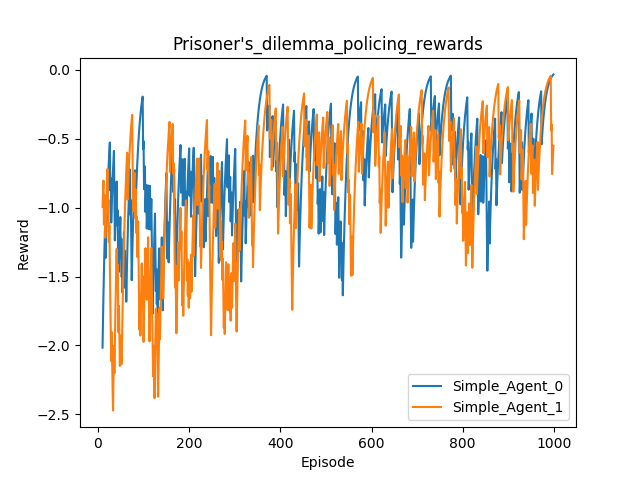
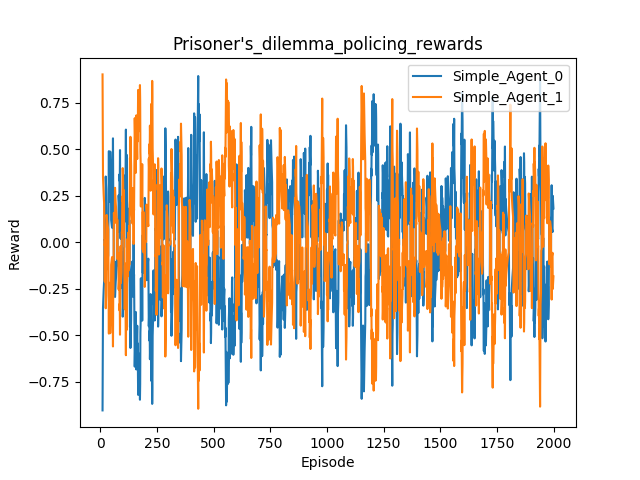
Added logging and plotting of action probs, minor changes

diff --git a/Agents.py b/Agents.py
@@ -1,7 +1,7 @@
 import numpy as np
 import tensorflow as tf
 
-RANDOM_SEED = 9
+RANDOM_SEED = 5
 np.random.seed(RANDOM_SEED)
 tf.set_random_seed(RANDOM_SEED)
 
@@ -179,6 +179,7 @@ class Critic(object):
 class Simple_Agent(Agent): #plays games with 2 actions, using a single parameter
     def __init__(self, env, learning_rate=0.001, n_units_critic = 20, gamma = 0.95, agent_idx = 0, critic_variant = Critic_Variant.INDEPENDENT):
         super().__init__(env, learning_rate, gamma, agent_idx)
+        self.log = []
         self.s = tf.placeholder(tf.float32, [1, env.n_features], "state") # dummy variable
         self.a = tf.placeholder(tf.int32, None, "act")
         self.td_error = tf.placeholder(tf.float32, None, "td_error")  # TD_error
@@ -211,7 +212,9 @@ class Simple_Agent(Agent): #plays games with 2 actions, using a single parameter
 
     def calc_action_probs(self, s):
         s = s[np.newaxis, :]
-        return self.sess.run(self.actions_prob)  
+        probs = self.sess.run(self.actions_prob)  
+        self.log.append(probs[0,1])
+        return probs
 
     def pass_agent_list(self, agent_list):
         self.critic.pass_agent_list(agent_list)
@@ -250,7 +253,7 @@ class Policing_Sub_Agent(Agent):
         self.a_player = tf.placeholder(tf.float32, None, "player_action")
         self.inputs = tf.concat([self.s,tf.reshape(self.a_player,(1,1))],1)
 
-        with tf.variable_scope('Policy_p_Network_Agent_'+str(policed_agent.agent_idx)):
+        with tf.variable_scope('Policy_p_'+str(policed_agent.agent_idx)):
             # l1 = tf.layers.dense(
             #     inputs=self.inputs,
             #     units=n_units,    # number of hidden units
@@ -260,10 +263,10 @@ class Policing_Sub_Agent(Agent):
             #     name='l1_policing'
             # )
 
-            self.action_layer = tf.layers.dense(
+            self.actions_prob = tf.layers.dense(
                 inputs=self.inputs,
                 units=self.n_policing_actions,    # output units
-                activation=None,
+                activation=tf.nn.softmax,
                 kernel_initializer=tf.random_normal_initializer(0., .1),  # weights
                 bias_initializer=tf.constant_initializer(0),  # biases
                 name='actions_policing'
@@ -271,7 +274,7 @@ class Policing_Sub_Agent(Agent):
 
         with tf.variable_scope('Vp'):
             # Vp is trivial to calculate in this special case
-            self.vp = -4 * (1 + tf.sign(self.action_layer[0,0]-self.action_layer[0,1]))
+            self.vp = 4 * (self.actions_prob[0,1]-self.actions_prob[0,0])
 
         with tf.variable_scope('V_total'):
             # V is trivial to calculate in this special case
@@ -291,14 +294,17 @@ class Policing_Sub_Agent(Agent):
             self.cost = - policed_agent.learning_rate * tf.tensordot(self.g_Vp_d,self.g_V_d,1)
 
         with tf.variable_scope('trainPolicingAgent'):
-            self.train_op = tf.train.AdamOptimizer(learning_rate).minimize(self.cost)  
+            self.train_op = tf.train.AdamOptimizer(learning_rate).minimize(self.cost, 
+                var_list = tf.get_collection(tf.GraphKeys.GLOBAL_VARIABLES, scope='Policy_p_'+str(policed_agent.agent_idx)))  
 
         self.sess.run(tf.global_variables_initializer())
 
     def learn(self, s, a_player):
         s = s[np.newaxis,:]
         feed_dict = {self.s: s, self.a_player: a_player, self.policed_agent.get_state_variable(): s}
-        vp,v,cost,g_Vp_d,g_V_d,_ = self.sess.run([self.vp,self.v,self.cost,self.g_Vp_d,self.g_V_d,self.train_op], feed_dict)
+        self.sess.run([self.train_op], feed_dict)
+        actions_prob,vp,v,cost,g_Vp_d,g_V_d = self.sess.run([self.actions_prob,self.vp,self.v,self.cost,self.g_Vp_d,self.g_V_d], feed_dict)
+        print('Policing_actions_prob: ', actions_prob)
         print('Vp: ', vp)
         print('V: ', v)
         print('Gradient of V_p: ', g_Vp_d)
@@ -306,8 +312,13 @@ class Policing_Sub_Agent(Agent):
         print('Cost: ', cost)
 
     def choose_action(self, s, a):
+        action_probs = self.calc_action_probs(s,a)
         print('Player action: ',a)
-        probs = self.sess.run(self.action_layer, {self.s: s[np.newaxis,:], self.a_player: a})   # get probabilities for all actions
-        action = np.argmax(probs)
+        action = np.random.choice(range(action_probs.shape[1]), p=action_probs.ravel())  # select action w.r.t the actions prob
         print('Policing action: ', action)
         return action
+
+    def calc_action_probs(self, s, a):
+        s = s[np.newaxis, :]
+        probs = self.sess.run(self.actions_prob, {self.s: s, self.a_player: a})   # get probabilities for all actions
+        return probs

diff --git a/main.py b/main.py
@@ -1,9 +1,10 @@
 import matplotlib.pyplot as plt
 import numpy as np
+from statistics import mean
 from Environments import Prisoners_Dilemma
 from Agents import Actor_Critic_Agent, Critic_Variant, Policing_Agent, Simple_Agent
 HISTORY_LENGTH = 5 # the NN will use the actions from this many past rounds to determine its action
-N_EPISODES = 1000
+N_EPISODES = 2000
 N_PLAYERS = 4
 N_UNITS = 1 #number of nodes in the intermediate layer of the NN
 
@@ -29,7 +30,9 @@ def run_game(N_EPISODES, players, policing_agent = None):
 
             if policing_agent is not None:
                 a_p_list = policing_agent.choose_action(s,actions)
-                policing_rs = [4 * (a_p-1) for a_p in a_p_list]
+                policing_rs = [4 * (a_p-0.5) for a_p in a_p_list]
+                mean_policing_r = mean(policing_rs)
+                policing_rs = [r-mean_policing_r for r in policing_rs]
                 rewards = [ sum(r) for r in zip(rewards,policing_rs)]
                 print('Rewards: ', rewards)
                 cum_policing_rs = [sum(r) for r in zip(cum_policing_rs, policing_rs)]
@@ -62,7 +65,7 @@ def run_game(N_EPISODES, players, policing_agent = None):
             print('Episode {} finished.'.format(episode + 1))
     return env.get_avg_rewards_per_round(), np.asarray(avg_policing_rewards_per_round)
 
-def plot_results(avg_rewards_per_round, legend, label, exp_factor = 1):
+def plot_results(avg_rewards_per_round, legend, title, ylabel = 'Reward', exp_factor = 1):
     plt.figure()
     for agent_idx in range(avg_rewards_per_round.shape[1]):
         avg = avg_rewards_per_round[0,agent_idx]
@@ -73,10 +76,10 @@ def plot_results(avg_rewards_per_round, legend, label, exp_factor = 1):
         first_idx = int(1 / exp_factor)
         plt.plot(range(first_idx,len(avg_list)),avg_list[first_idx:])
     plt.xlabel('Episode')
-    plt.ylabel('Reward')
+    plt.ylabel(ylabel)
     plt.legend(legend)
-    plt.title(label)
-    plt.savefig('./'+label)
+    plt.title(title)
+    plt.savefig('./'+title)
     #plt.show()
 
 def create_population(env,n_agents, use_simple_agents = False):    
@@ -118,3 +121,5 @@ if __name__ == "__main__":
     avg_rewards_per_round,avg_policing_rewards_per_round = run_game(N_EPISODES,agents,policing_agent)
     plot_results(avg_rewards_per_round,[str(agent) for agent in agents],env.__str__(), exp_factor=0.1)
     plot_results(avg_policing_rewards_per_round,[str(agent) for agent in agents],env.__str__()+'_policing_rewards', exp_factor=0.1)
+    action_prob_each_round_list = np.array([agent.log for agent in agents])
+    plot_results(action_prob_each_round_list,[str(agent) for agent in agents],env.__str__()+'action_probabilities')
